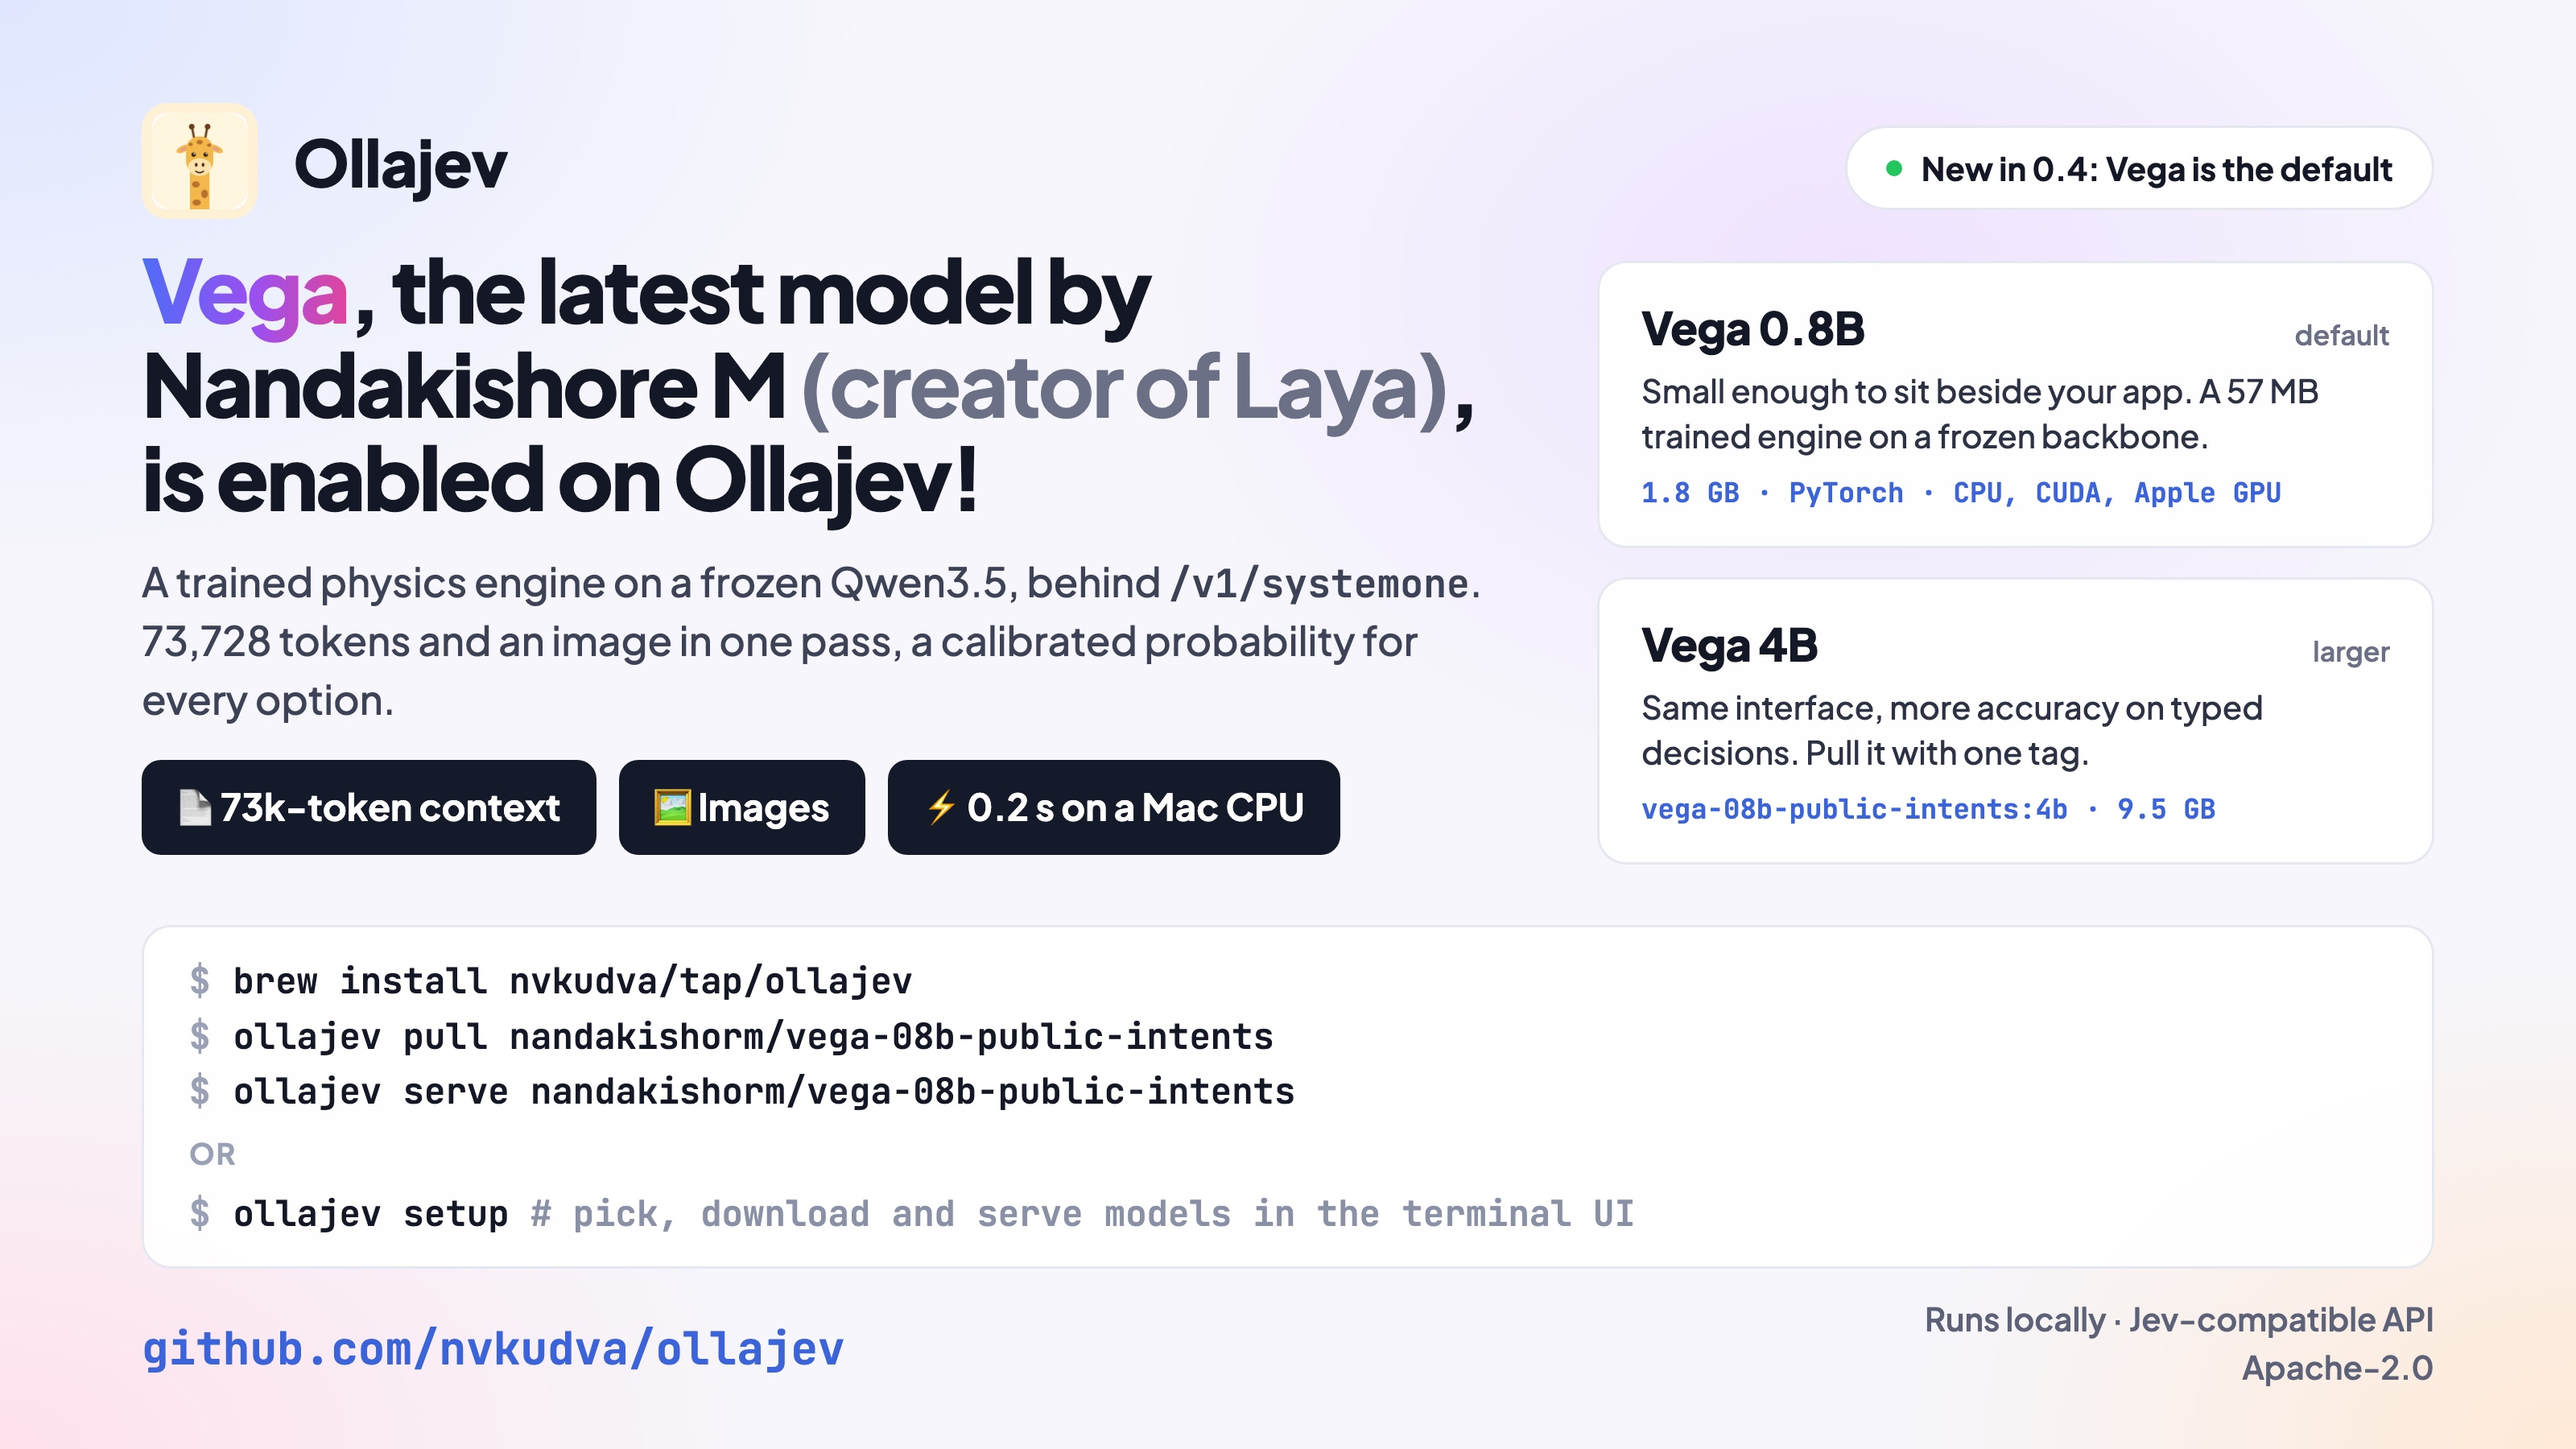
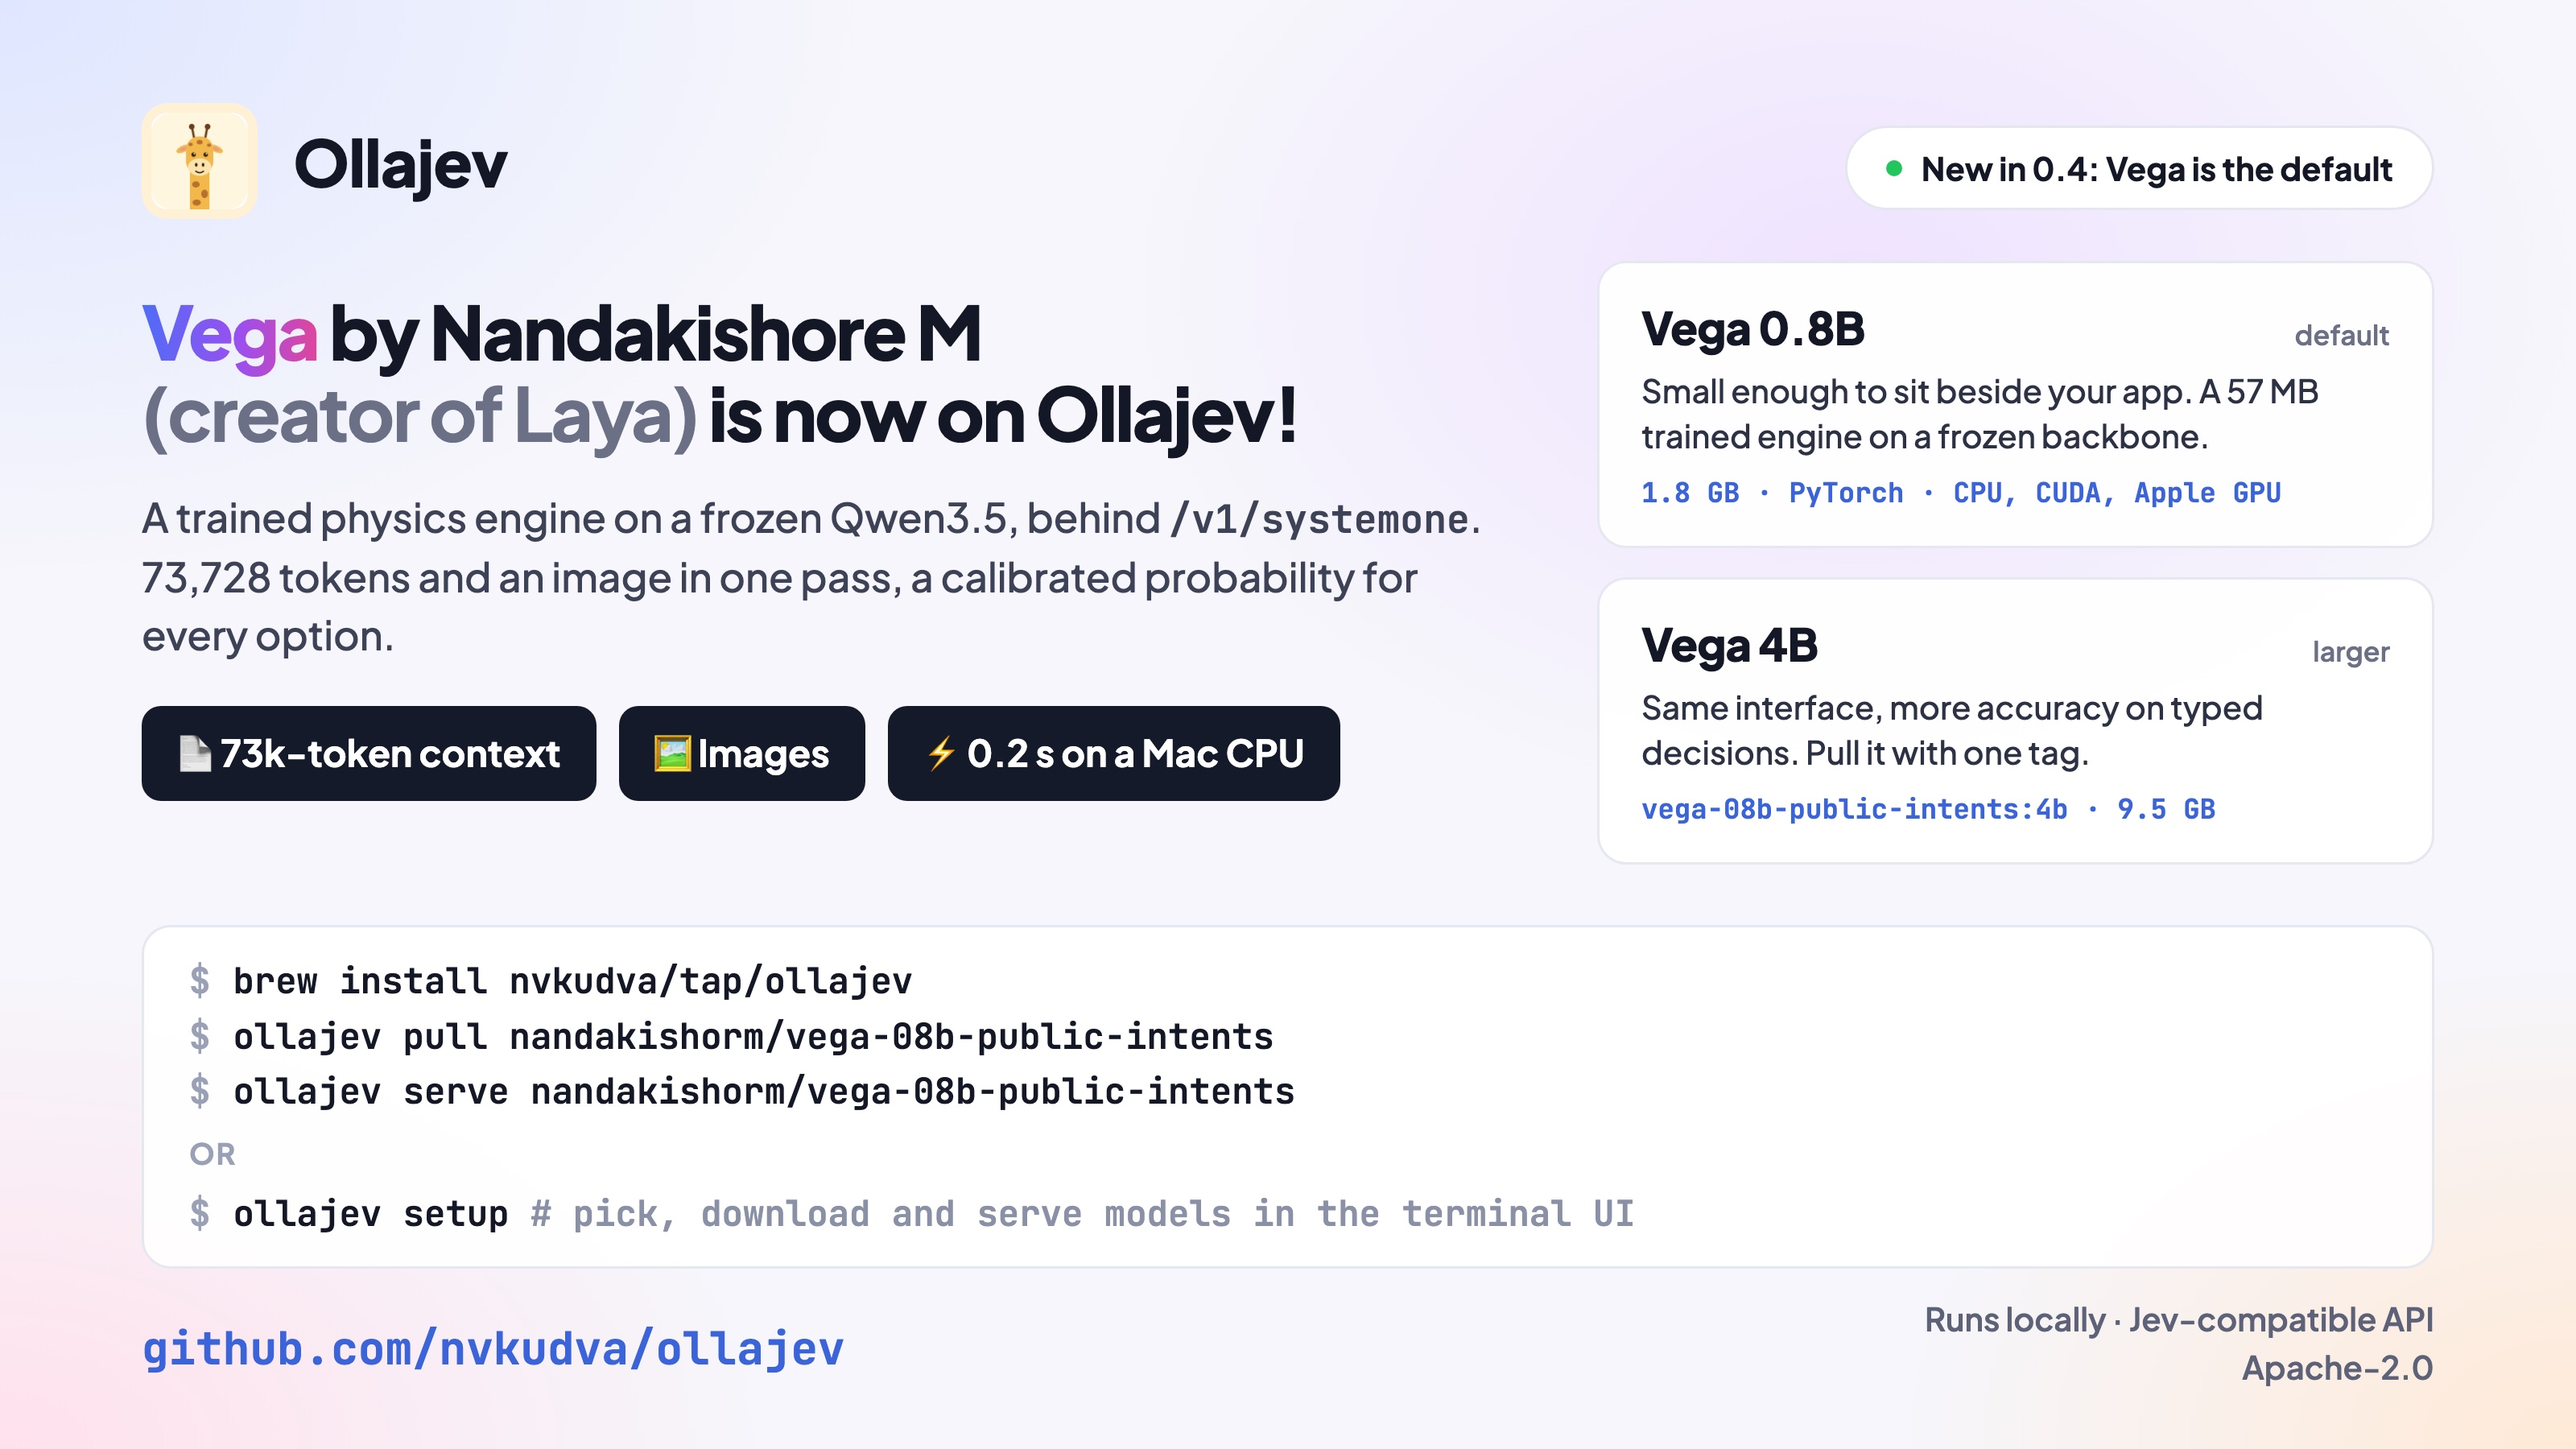
docs(poster): shorter, smaller headline
Claude-Session: https://claude.ai/code/session_0187pUTAZjCm4AQeWJKahLo7

Changed region(s): [[0.0312, 0.1867, 0.5625, 0.5911]]

diff --git a/docs/index.html b/docs/index.html
@@ -393,7 +393,7 @@ const SHOTS = {
   vega: {
     src: "vega-poster.jpg",
     width: 3200, height: 1800,
-    alt: "Vega, the latest model by Nandakishore M (creator of Laya), is enabled on Ollajev! New in 0.4, Vega is the default: a trained physics engine on a frozen Qwen3.5, 73,728 tokens and an image in one pass. Cards for Vega 0.8B (default, 1.8 GB) and Vega 4B (9.5 GB, the :4b tag), and the commands to start: brew install nvkudva/tap/ollajev, then ollajev pull and ollajev serve nandakishorm/vega-08b-public-intents, or ollajev setup to pick, download and serve models in the terminal UI.",
+    alt: "Vega by Nandakishore M (creator of Laya) is now on Ollajev! New in 0.4, Vega is the default: a trained physics engine on a frozen Qwen3.5, 73,728 tokens and an image in one pass. Cards for Vega 0.8B (default, 1.8 GB) and Vega 4B (9.5 GB, the :4b tag), and the commands to start: brew install nvkudva/tap/ollajev, then ollajev pull and ollajev serve nandakishorm/vega-08b-public-intents, or ollajev setup to pick, download and serve models in the terminal UI.",
   },
   multimodal: {
     src: "multimodal-poster.jpg",

diff --git a/README.md b/README.md
@@ -7,7 +7,7 @@ Run System One decision models from Hugging Face on your machine, behind the sam
 
 <p align="center"><a href="https://nvkudva.github.io/ollajev/">Product page</a> · <a href="#install">Install</a> · <a href="#quick-start">Quick start</a> · <a href="#models">Models</a> · <a href="#api">API</a></p>
 
-<p align="center"><a href="https://nvkudva.github.io/ollajev/#new"><img src="https://raw.githubusercontent.com/nvkudva/ollajev/main/docs/vega-poster.jpg" alt="Vega, the latest model by Nandakishore M (creator of Laya), is enabled on Ollajev! Vega 0.8B is the new default and Vega 4B is one tag away. Install with brew install nvkudva/tap/ollajev, then ollajev pull and ollajev serve nandakishorm/vega-08b-public-intents, or ollajev setup" width="720"></a></p>
+<p align="center"><a href="https://nvkudva.github.io/ollajev/#new"><img src="https://raw.githubusercontent.com/nvkudva/ollajev/main/docs/vega-poster.jpg" alt="Vega by Nandakishore M (creator of Laya) is now on Ollajev! Vega 0.8B is the new default and Vega 4B is one tag away. Install with brew install nvkudva/tap/ollajev, then ollajev pull and ollajev serve nandakishorm/vega-08b-public-intents, or ollajev setup" width="720"></a></p>
 
 > **New in 0.4:** [Vega](https://huggingface.co/nandakishorm/vega-08b-public-intents) is the default model: a
 > trained physics engine on a frozen Qwen3.5, in 0.8B (1.8 GB) and 4B (`:4b`, 9.5 GB) sizes, with a 73,728-token
